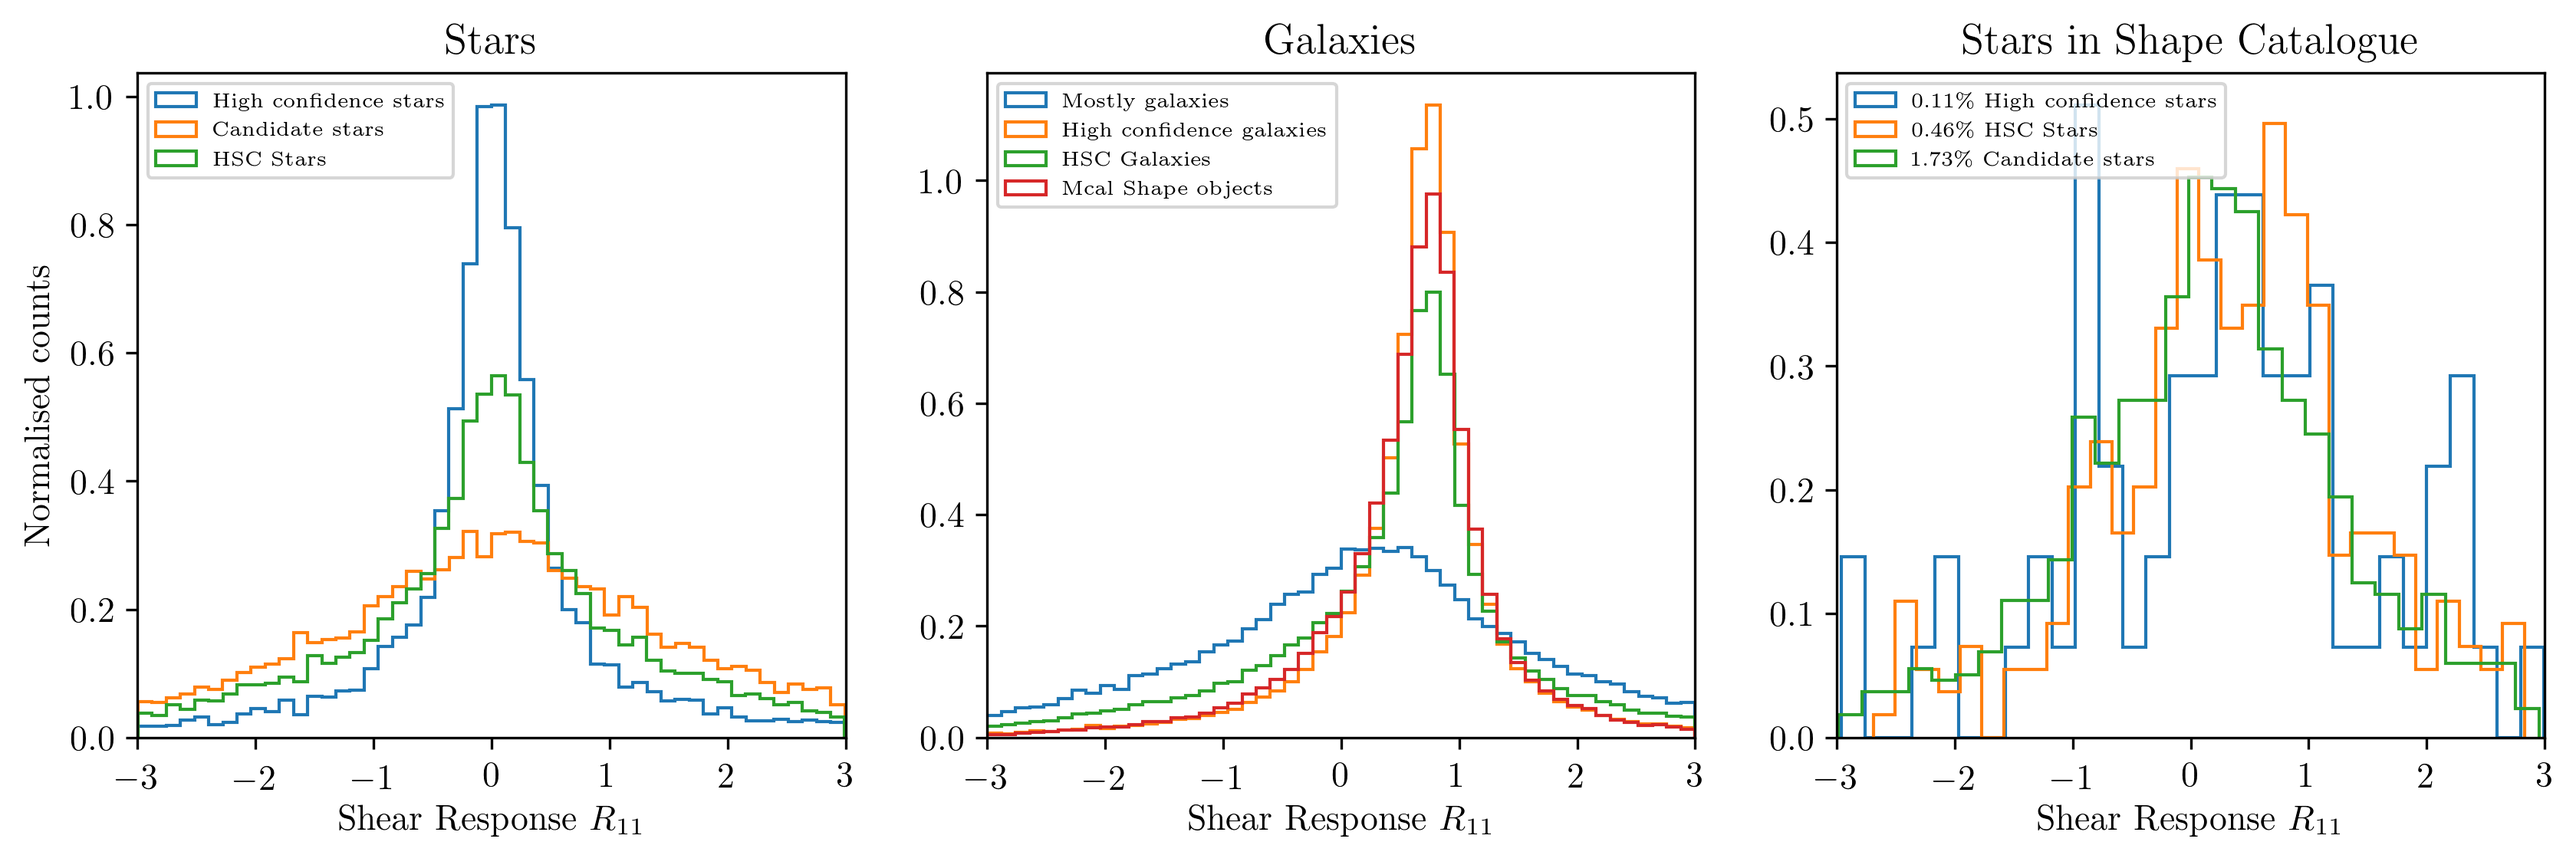
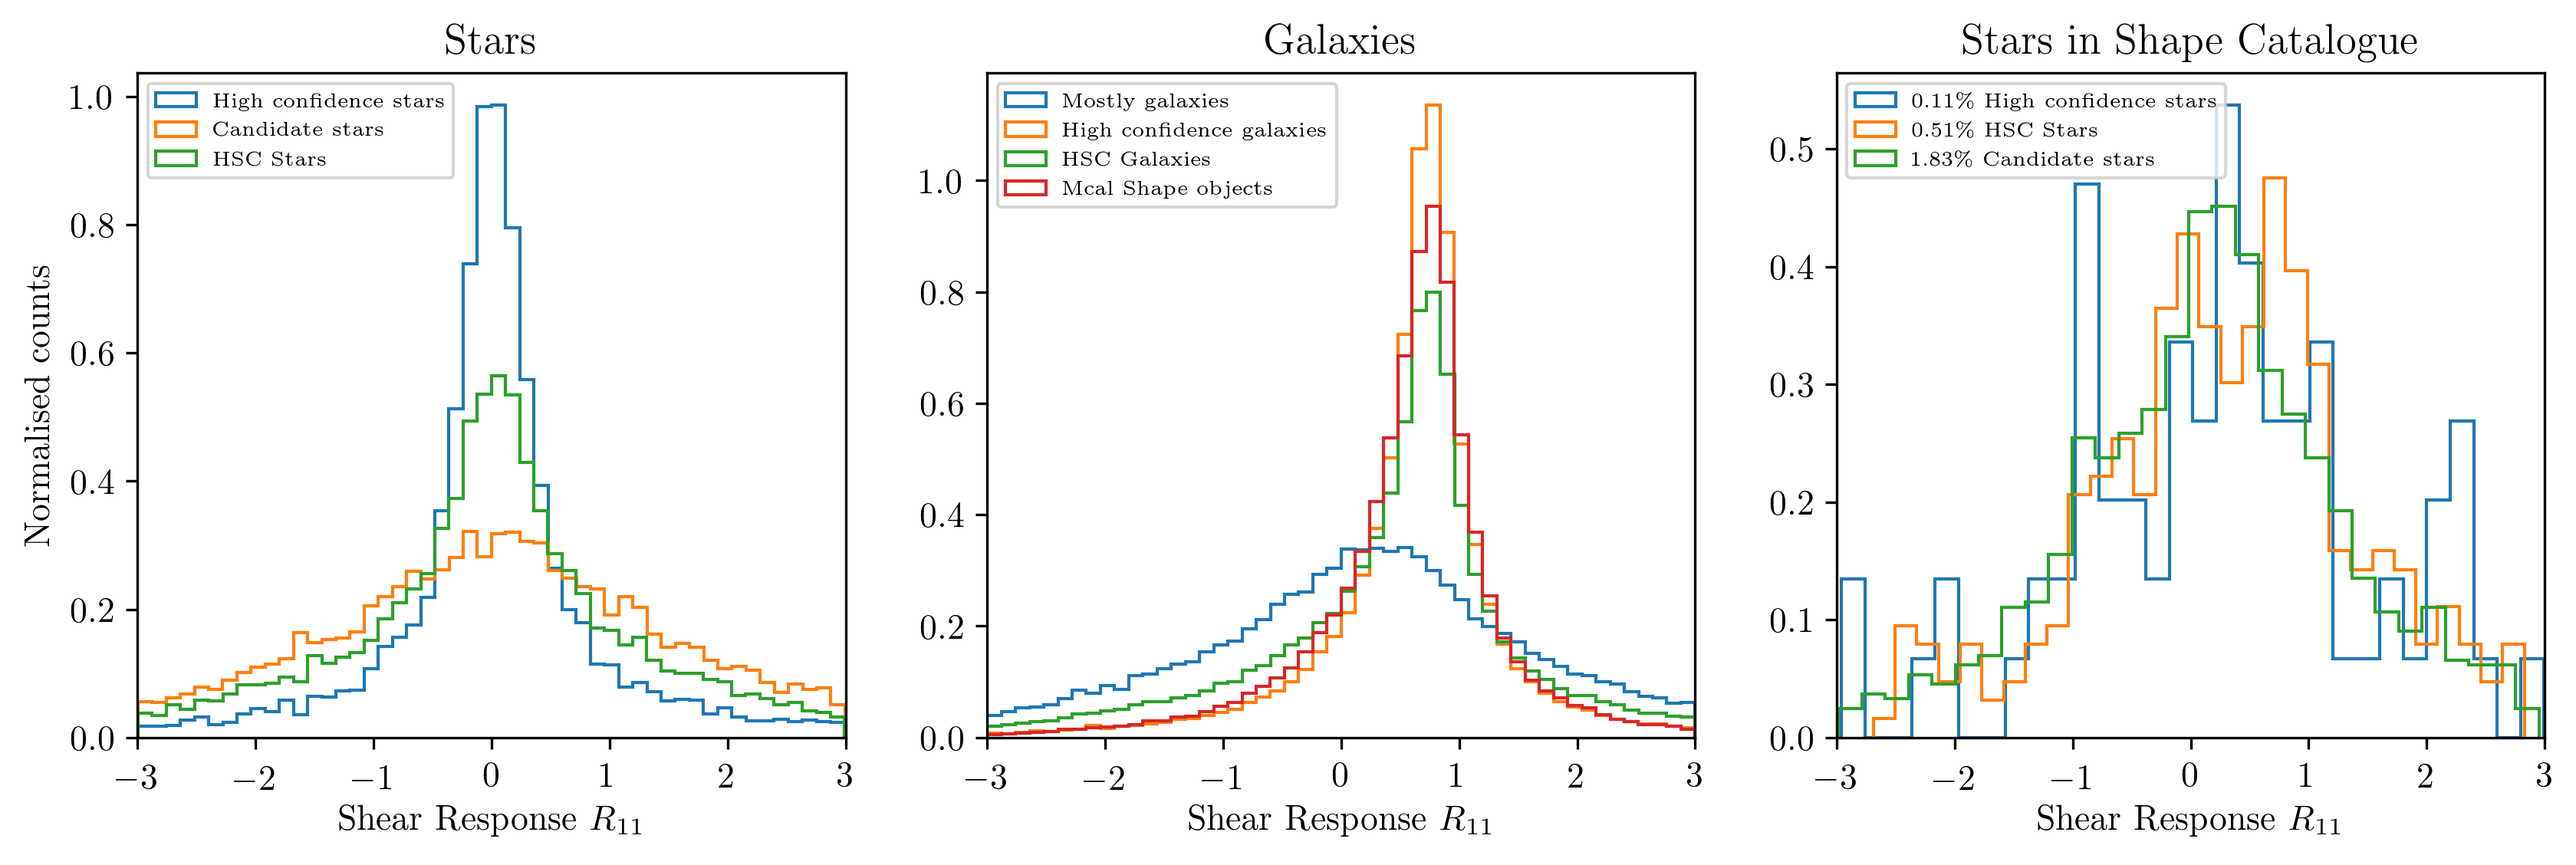
changed size_ratio definition

diff --git a/mcal-contamination.py b/mcal-contamination.py
@@ -13,7 +13,7 @@ plt.close('all') # tidy up any unshown plots
 def make_shape_cuts(cat, snr=[10,100], flags=0, size_ratio=0.5):
   flag_cut = cat['flags']==flags
   snr_cut = np.less(cat['snr'], snr[1])*np.greater(cat['snr'], snr[0])
-  size_cut = np.greater(cat['T']/cat['mcal_psf_T'], size_ratio)
+  size_cut = np.greater(cat['T']/cat['psf_T'], size_ratio)
   shape_cut = flag_cut*snr_cut*size_cut
 
   return shape_cut
@@ -90,6 +90,8 @@ N_spread_shape_stars = np.sum(star_spread_cut*shape_mcal_gold_cut)
 
 N_high_shape_stars = np.sum(shape_mcal_gold_cut*(mcal_gold_matches['EXTENDED_CLASS_COADD']==0))
 N_cand_shape_stars = np.sum(shape_mcal_gold_cut*(mcal_gold_matches['EXTENDED_CLASS_COADD']==1))
+
+print(N_shape/N_shape_hsc)
 
 #print(N_mcal, N_gold, N_hsc)
 #print(N_mcal_gold, N_hsc_gold, N_mcal_hsc_gold)
